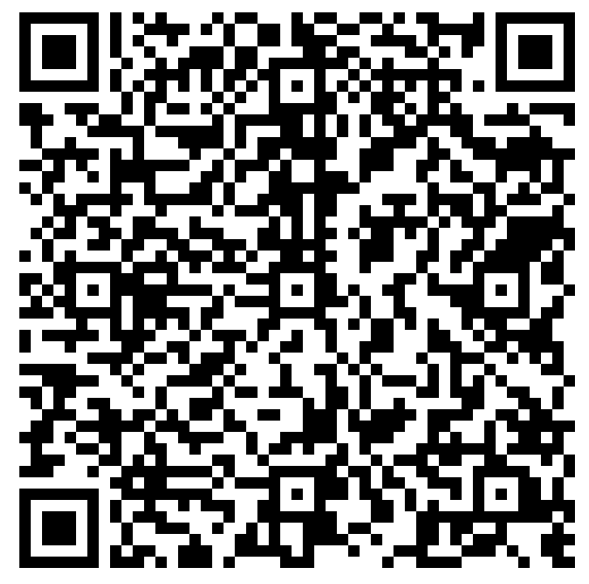
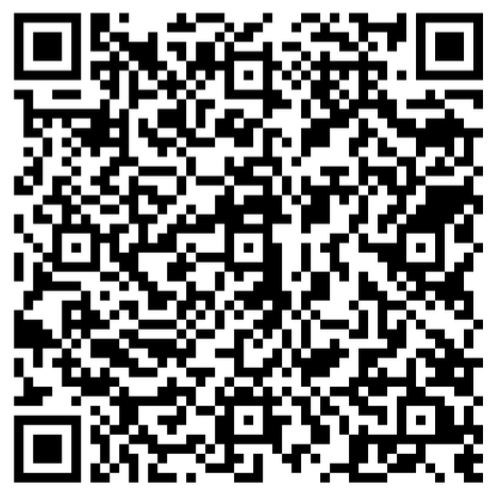
pix

diff --git a/pages/confirm/pix_success.tsx b/pages/confirm/pix_success.tsx
@@ -30,13 +30,13 @@ export default function Pix() {
                             <span className="payment-step-number p-sm-4 p-lg-0">1</span>
                             <h2 className="payment-step-title">Copie o escaneie o código <strong>PIX</strong> abaixo:</h2>
                         </div>
-                        <input type="text" name="pix" id="pix" className="form-control" value={"00020126560014br.gov.bcb.pix0114104414700001440216Quem como Deus ?520400005303986540520.005802BR5925FUNDACAO SAO PADRE PIO DE6011JOAO PESSOA62270523ComFilhosdaMisericordia6304AC62"} />
+                        <input type="text" name="pix" id="pix" className="form-control" value={"00020126560014br.gov.bcb.pix0114104414700001440216Encontro de cura520400005303986540530.005802BR5925FUNDACAO SAO PADRE PIO DE6011JOAO PESSOA62240520VivopelaMisericordia630450A8"} />
 
                         <div style={{ display: 'flex', alignItems: 'center', justifyContent: 'center' }}>
                             <Image className="qr_code" src={qr_code} alt="qr_code" />
                         </div>
                         <button type="button" className="btn btn-primary p-3 my-3" onClick={() => {
-                            navigator.clipboard.writeText("00020126560014br.gov.bcb.pix0114104414700001440216Quem como Deus ?520400005303986540520.005802BR5925FUNDACAO SAO PADRE PIO DE6011JOAO PESSOA62270523ComFilhosdaMisericordia6304AC62")
+                            navigator.clipboard.writeText("00020126560014br.gov.bcb.pix0114104414700001440216Encontro de cura520400005303986540530.005802BR5925FUNDACAO SAO PADRE PIO DE6011JOAO PESSOA62240520VivopelaMisericordia630450A8")
                                 .then(() => alert('QR_CODE copiado para área de transferência'))
 
                         }}>
